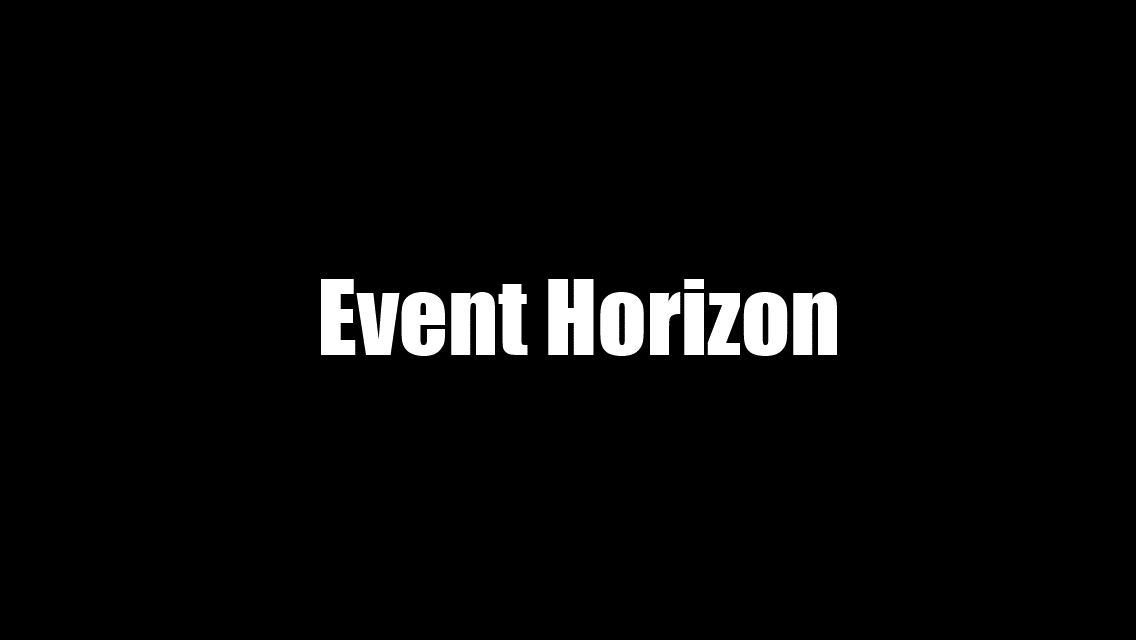
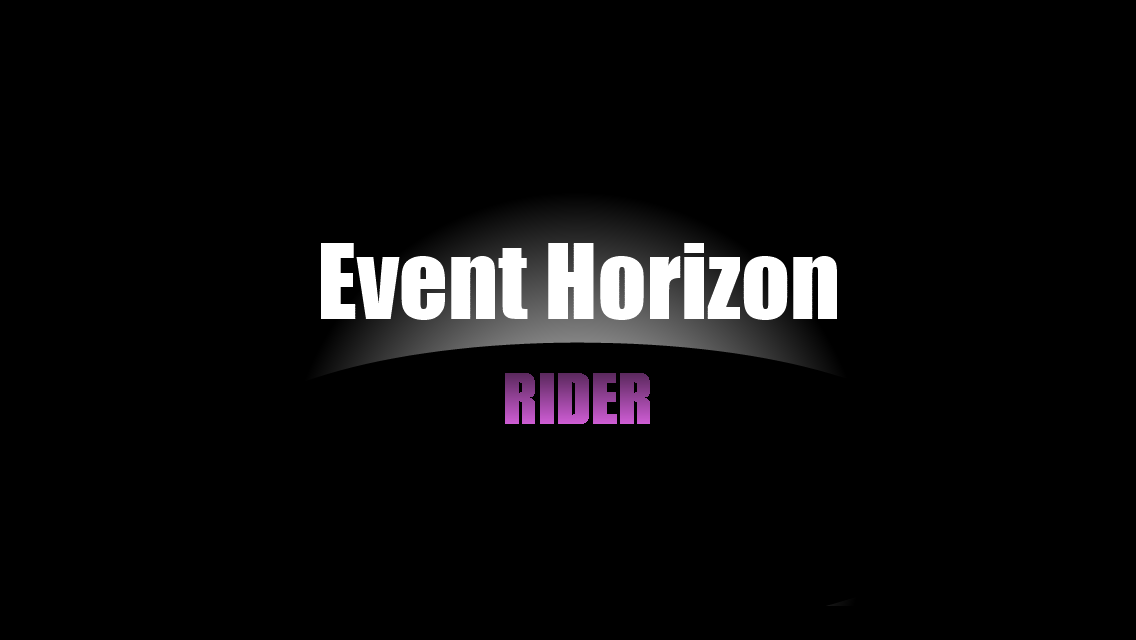
Update title graphics, tweak reset button, and expand levels.

Changed region(s): [[0.2773, 0.3438, 0.7394, 0.6875]]

diff --git a/EventHorizonRider.Core/Engine/LevelCollection.cs b/EventHorizonRider.Core/Engine/LevelCollection.cs
@@ -156,6 +156,10 @@ namespace EventHorizonRider.Core.Engine
                             numberOfGaps: Range.Create(1),
                             gapSize: Range.Create(MathHelper.TwoPi/4),
                             type: RingType.DustWithAsteroid),
+                        ringInfoFactory.GetSpirals(
+                            iterations: 1,
+                            spiralRadius: 500f,
+                            type: RingType.Asteroid),
                         ringInfoFactory.GetRandomSequence(
                             iterations: 4,
                             numberOfGaps: Range.Create(1, 3),
@@ -166,11 +170,21 @@ namespace EventHorizonRider.Core.Engine
                             numberOfGaps: Range.Create(1),
                             gapSize: Range.Create(MathHelper.TwoPi*0.28f),
                             type: RingType.IceCrystalsWithAsteroid),
+                        ringInfoFactory.GetZigZagSequence(
+                            iterations: 4,
+                            gapSize: MathHelper.TwoPi*0.2f,
+                            angleStep: MathHelper.TwoPi*0.5f,
+                            type: RingType.IceCrystalsWithAsteroid | RingType.IceCrystals,
+                            typeSelection: RingTypeSelection.RoundRobin),
                         ringInfoFactory.GetRandomSequence(
                             iterations: 3,
                             numberOfGaps: Range.Create(1),
                             gapSize: Range.Create(MathHelper.TwoPi*0.2f),
-                            type: RingType.IceCrystals))),
+                            type: RingType.IceCrystals),
+                        ringInfoFactory.GetRandomSequence(
+                            iterations: 11,
+                            gapSize: Range.Create(MathHelper.TwoPi*0.2f, MathHelper.TwoPi*0.25f),
+                            type: RingType.Asteroid | RingType.IceCrystals | RingType.IceCrystalsWithAsteroid))),
                 new Level(
                     shipSpeed: MathHelper.TwoPi*1.12f,
                     rotationVelocity: MathHelper.TwoPi / 20f,
@@ -179,6 +193,10 @@ namespace EventHorizonRider.Core.Engine
                     color: Color.Blue,
                     infiniteSequence: false,
                     sequence: Enumerable.Empty<RingInfo>().Concat(
+                        ringInfoFactory.GetSpirals(
+                            iterations: 1,
+                            spiralRadius: 500f,
+                            type: RingType.IceCrystals),
                         ringInfoFactory.GetZigZagSequence(
                             iterations: 4,
                             gapSize: MathHelper.TwoPi/4f,
@@ -189,6 +207,10 @@ namespace EventHorizonRider.Core.Engine
                             gapSize: MathHelper.TwoPi/4f,
                             type: RingType.IceCrystalsWithAsteroid,
                             typeSelection: RingTypeSelection.RoundRobin),
+                        ringInfoFactory.GetSpirals(
+                            iterations: 1,
+                            spiralRadius: 500f,
+                            type: RingType.Asteroid),
                         ringInfoFactory.GetZigZagSequence(
                             iterations: 4,
                             gapSize: MathHelper.TwoPi*0.3f,
@@ -196,9 +218,9 @@ namespace EventHorizonRider.Core.Engine
                             type: RingType.IceCrystals,
                             typeSelection: RingTypeSelection.RoundRobin),
                         ringInfoFactory.GetRandomSequence(
-                            iterations: 40,
+                            iterations: 55,
                             gapSize: Range.Create(MathHelper.TwoPi*0.18f, MathHelper.TwoPi*0.25f),
-                            type: RingType.Asteroid))),
+                            type: RingType.Asteroid | RingType.DustWithAsteroid))),
                 new Level(
                     shipSpeed: MathHelper.TwoPi*1.14f,
                     rotationVelocity: MathHelper.TwoPi / 16f,

diff --git a/EventHorizonRider.Core/Components/MenuComponents/ResetBestButton.cs b/EventHorizonRider.Core/Components/MenuComponents/ResetBestButton.cs
@@ -107,7 +107,7 @@ namespace EventHorizonRider.Core.Components.MenuComponents
                     buttonFont,
                     holdDurationText,
                     new Vector2(textLocation.X + textSize.X + 20f, textLocation.Y), 
-                    Color.White,
+                    Color.Gray,
                     0,
                     Vector2.Zero,
                     1f,
@@ -120,7 +120,7 @@ namespace EventHorizonRider.Core.Components.MenuComponents
                     buttonFont,
                     holdDurationText,
                     new Vector2(textLocation.X - holdDurationTextSize.X - 20f, textLocation.Y),
-                    Color.White,
+                    Color.Gray,
                     0,
                     Vector2.Zero,
                     1f,
